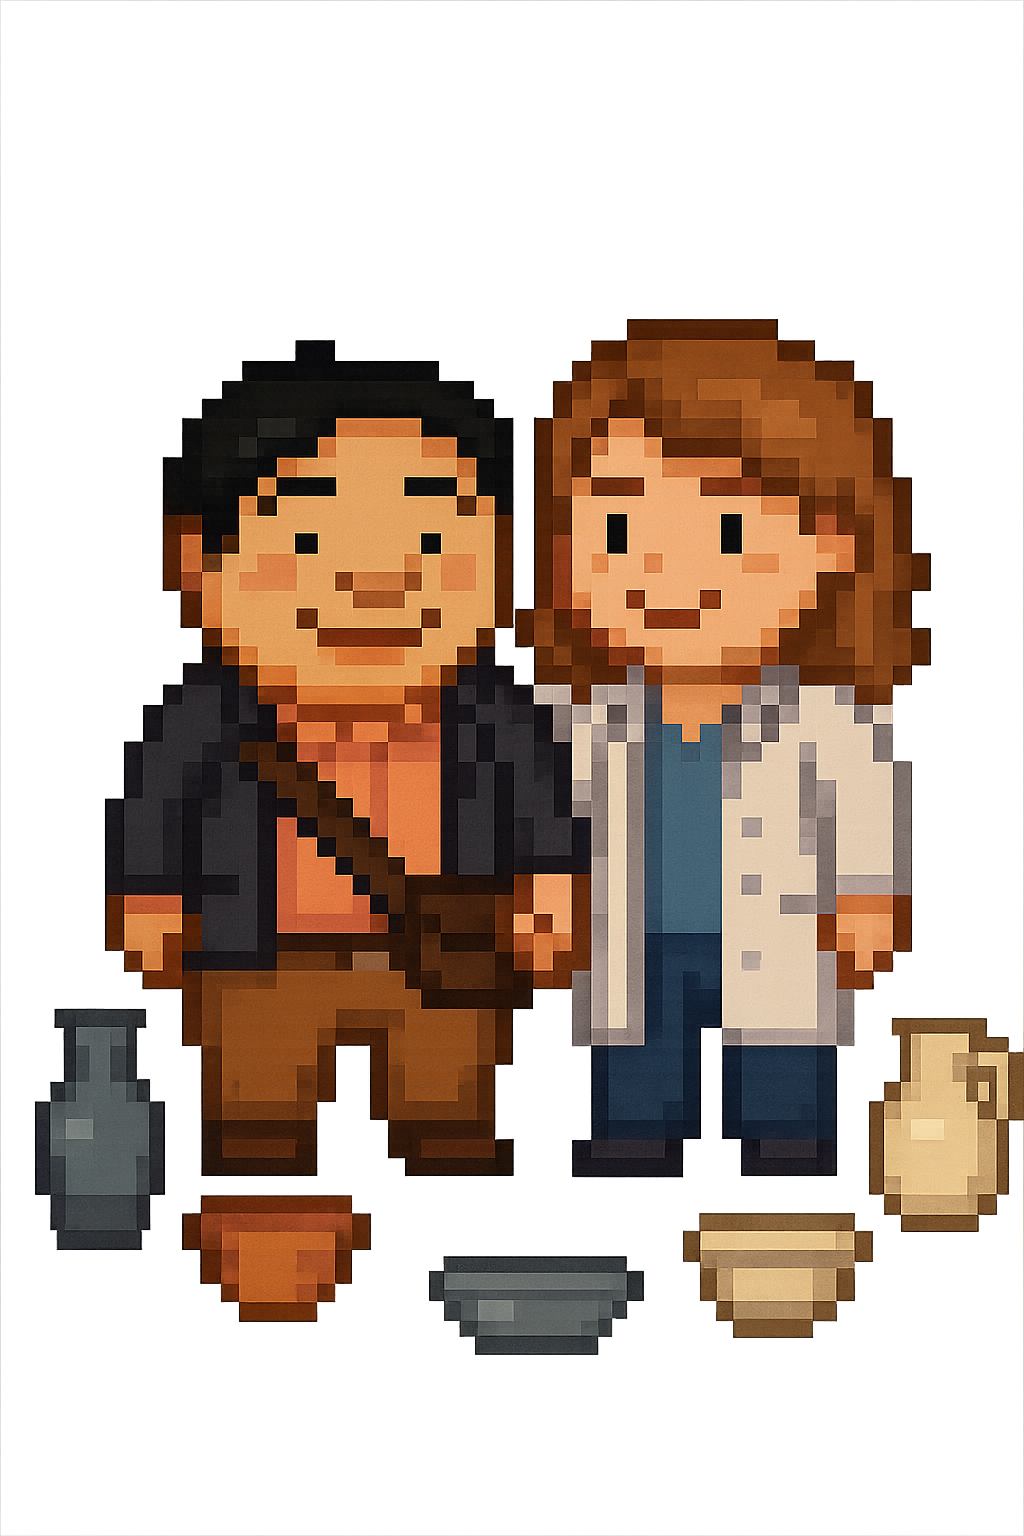
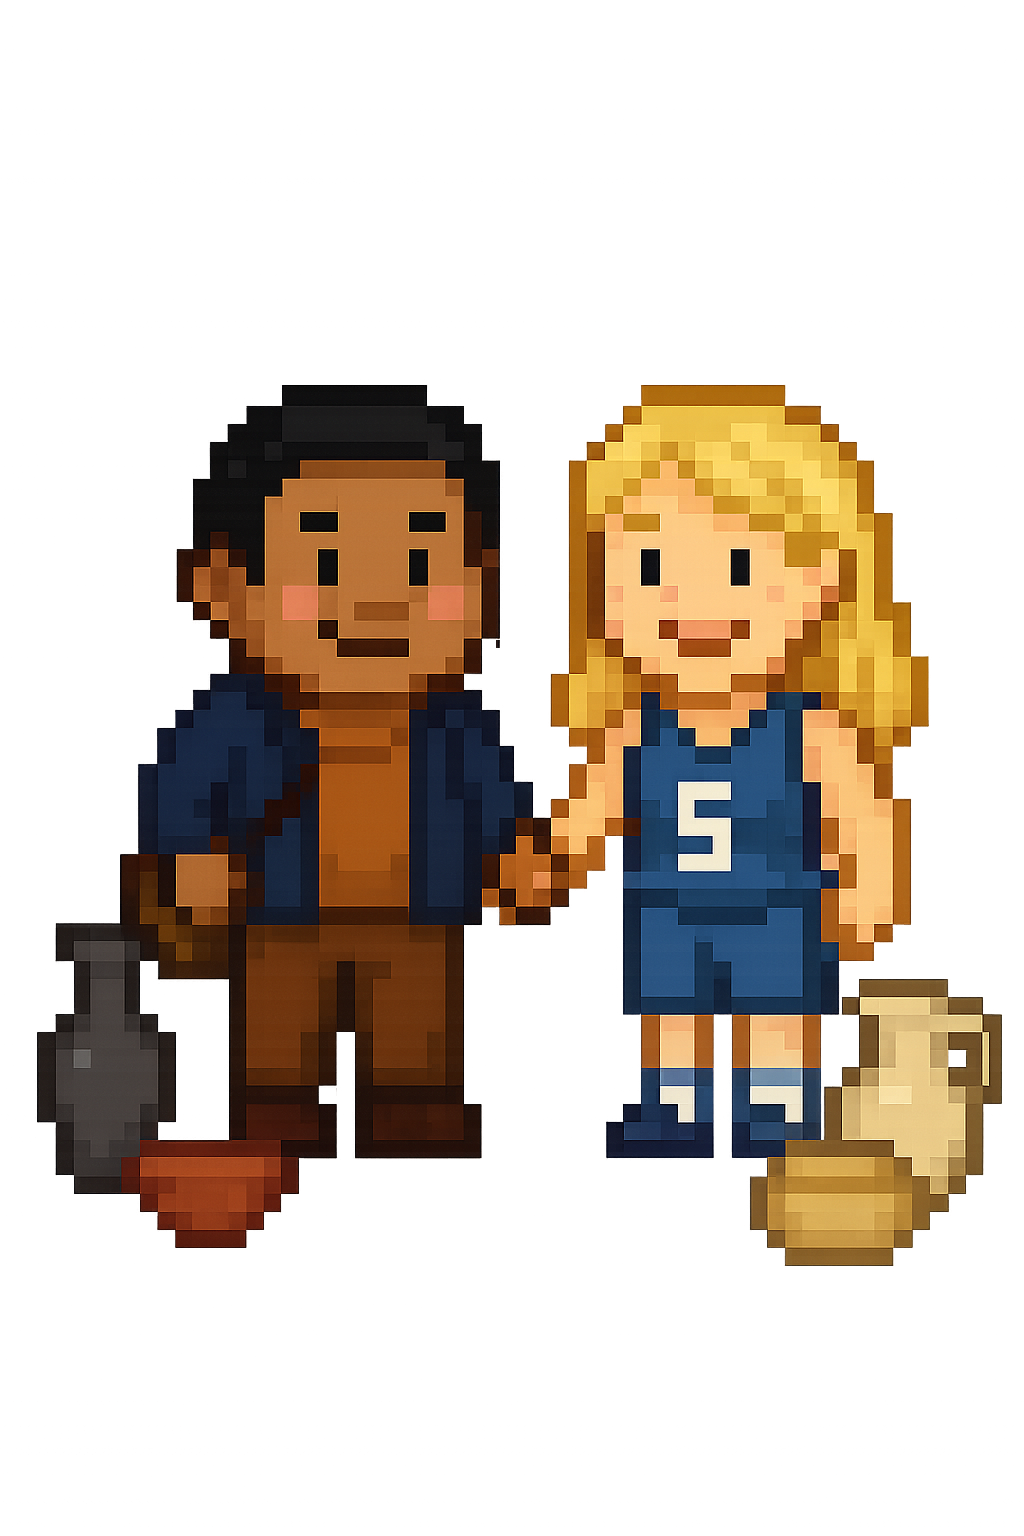
added khoa

diff --git a/js/core/Game.js b/js/core/Game.js
@@ -75,6 +75,12 @@ export class Game {
           "Wanna see something cool? Press ; to see the collision boxes that prevent you from bumping into things! (Muốn thấy điều gì đó thú vị không? Nhấn ; để xem các hộp va chạm ngăn bạn đâm vào đồ vật!)",
           "I love you! Happy birthday Lindo. (Anh yêu em! Chúc mừng sinh nhật Lindo.)"
         ]
+      },
+      'Friend1': {
+        portrait: 'roti', // Using placeholder portrait
+        messages: [
+          "Thanks for helping with the party setup! 🎉"
+        ]
       }
     };
     
@@ -82,7 +88,8 @@ export class Game {
     this.dogMessageIndex = {
       'Roti': 0,
       'Khushi': 0,
-      'Me': 0
+      'Me': 0,
+      'Friend1': 0
     };
     
     this.setupEventListeners();
@@ -111,7 +118,7 @@ export class Game {
     const { IMAGES } = CONFIG.ASSETS;
     
     // Load all images in parallel
-    const [backgroundImage, playerFront, playerSide, playerMovement, playerUp, playerDown, rotiSprite, khushiSprite, meSprite, meFramesSprite] = await Promise.all([
+    const [backgroundImage, playerFront, playerSide, playerMovement, playerUp, playerDown, rotiSprite, khushiSprite, meSprite, meFramesSprite, friend1Sprite] = await Promise.all([
       this.assetLoader.loadImage(IMAGES.BACKGROUND),
       this.assetLoader.loadImage(IMAGES.PLAYER_FRONT),
       this.assetLoader.loadImage(IMAGES.PLAYER_SIDE),
@@ -121,18 +128,20 @@ export class Game {
       this.assetLoader.loadImage(IMAGES.ROTI),
       this.assetLoader.loadImage(IMAGES.KHUSHI),
       this.assetLoader.loadImage(IMAGES.ME),
-      this.assetLoader.loadImage(IMAGES.ME_FRAMES)
+      this.assetLoader.loadImage(IMAGES.ME_FRAMES),
+      this.assetLoader.loadImage(IMAGES.FRIEND1)
     ]);
 
     // Store loaded assets
     this.backgroundImage = backgroundImage;
     this.player.setSprites(playerFront, playerSide, playerUp, playerMovement, playerUp, playerDown);
     
-    return { rotiSprite, khushiSprite, meSprite, meFramesSprite };
+    
+    return { rotiSprite, khushiSprite, meSprite, meFramesSprite, friend1Sprite };
   }
 
   async createEntities(sprites) {
-    const { rotiSprite, khushiSprite, meSprite, meFramesSprite } = sprites;
+    const { rotiSprite, khushiSprite, meSprite, meFramesSprite, friend1Sprite } = sprites;
     
     // Create dogs with their sprites and audio
     const rotiDog = new Dog('Roti', CONFIG.DOGS.ROTI);
@@ -147,7 +156,14 @@ export class Game {
     meDog.setSprite(meSprite); // Keep original for fallback
     meDog.setFramesSprite(meFramesSprite); // Set new animation sprite
     
-    this.dogs = [rotiDog, khushiDog, meDog];
+    // Create friend1 as simple dog entity
+    const friend1 = new Dog('Friend1', CONFIG.DOGS.FRIEND1);
+    friend1.setSprite(friend1Sprite);
+    friend1.setAudio(this.audioManager.getAudio('friend1Sound'));
+    
+    console.log('🖼 Friend1 sprite source:', friend1Sprite?.src);
+    
+    this.dogs = [rotiDog, khushiDog, meDog, friend1];
   }
 
   setupEventListeners() {
@@ -411,8 +427,11 @@ export class Game {
       rect.height / CONFIG.CANVAS.HEIGHT
     );
     
+    // Use smaller offset for Friend1 since it's much larger
+    const yOffset = character.name === 'Friend1' ? -20 : -80;
+    
     const x = rect.left + (character.x + character.width / 2 - 70) * canvasScale;
-    const y = rect.top + (character.y - 80) * canvasScale;
+    const y = rect.top + (character.y + yOffset) * canvasScale;
     
     this.talkPrompt.style.left = `${x}px`;
     this.talkPrompt.style.top = `${y}px`;

diff --git a/js/config/gameConfig.js b/js/config/gameConfig.js
@@ -76,6 +76,13 @@ export const CONFIG = {
       jumpFrameNew: { sx: 0, sy: 0 },        // Frame 3 (jump/singing)
       animationSpeed: 8, // frames between transitions
       shadowWidth: 70, shadowHeight: 25, shadowOffsetY: 10
+    },
+    FRIEND1: {
+      x: 200, y: 600, scale: 2,
+      width: 80, height: 120,
+      sitFrame: { sx: 0, sy: 0 },
+      jumpFrame: { sx: 0, sy: 0 }, // Same as sit - no animation
+      shadowWidth: 40, shadowHeight: 15, shadowOffsetY: 8
     }
   },
 
@@ -91,7 +98,8 @@ export const CONFIG = {
       ROTI: 'assets/images/roti.png',
       KHUSHI: 'assets/images/khushi.png',
       ME: 'assets/images/me.png',
-      ME_FRAMES: 'assets/images/me_frames.png'
+      ME_FRAMES: 'assets/images/me_frames.png',
+      FRIEND1: 'assets/images/friends/friend1.png'
     },
     AUDIO: {
       BG_MUSIC: 'assets/audio/bg.mp3',

diff --git a/js/entities/Dog.js b/js/entities/Dog.js
@@ -277,12 +277,17 @@ export class Dog extends GameObject {
     const offsetX = this.state === 'jump' ? this.jumpOffsetX : 0;
     const offsetY = this.state === 'jump' ? this.jumpOffsetY : 0;
 
+    // For simple friends, use full image dimensions
+    const isFriend = this.name.startsWith('Friend') && this.sprite;
+    const sourceWidth = isFriend ? this.sprite.naturalWidth : this.originalWidth;
+    const sourceHeight = isFriend ? this.sprite.naturalHeight : this.originalHeight;
+
     return {
       sprite: this.sprite,
       sourceX: frame.sx,
       sourceY: frame.sy,
-      sourceWidth: this.originalWidth,
-      sourceHeight: this.originalHeight,
+      sourceWidth: sourceWidth,
+      sourceHeight: sourceHeight,
       destX: this.x + offsetX,
       destY: this.y + offsetY,
       destWidth: this.originalWidth * this.scale,

diff --git a/js/systems/Renderer.js b/js/systems/Renderer.js
@@ -217,6 +217,12 @@ export class Renderer {
       const drawData = dog.getDrawData();
       const config = CONFIG.DOGS[dog.name.toUpperCase()];
       
+      // Check if sprite loaded properly
+      if (!drawData.sprite || drawData.sprite.naturalWidth === 0) {
+        console.warn(`🚨 ${dog.name} sprite not loaded properly`);
+        return;
+      }
+      
       // Draw shadow first (behind dog)
       if (config && config.shadowWidth) {
         const shadowX = drawData.destX + drawData.destWidth / 2;

diff --git a/js/systems/AudioManager.js b/js/systems/AudioManager.js
@@ -23,6 +23,7 @@ export class AudioManager {
       this.audioElements.set('barkRoti', document.getElementById('barkRoti'));
       this.audioElements.set('barkKhushi', document.getElementById('barkKhushi'));
       this.audioElements.set('happybday', document.getElementById('happybday'));
+      this.audioElements.set('friend1Sound', document.getElementById('friend1Sound'));
       
       // Set up background music properties
       const bgMusic = this.audioElements.get('bgMusic');

diff --git a/index.html b/index.html
@@ -17,6 +17,7 @@
   <audio id="barkKhushi" src="assets/audio/khushi.mp3" preload="auto"></audio>
   <audio id="happybday" src="assets/audio/me.m4a" preload="auto"></audio>
   <audio id="bgMusic" src="assets/audio/bg.mp3" preload="auto" loop></audio>
+  <audio id="friend1Sound" src="assets/audio/friends/friend1.mp3" preload="auto"></audio>
 
   <!-- Mailbox Modal -->
   <div class="mail-container" id="mailContainer">
